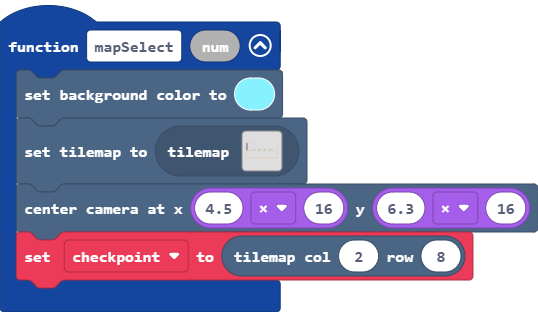
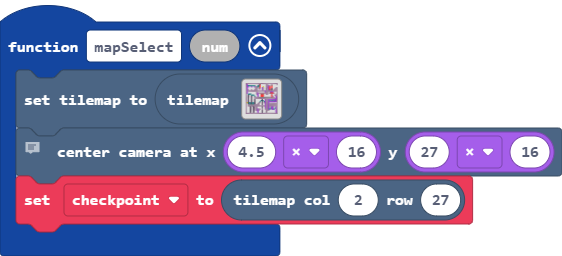
Update main.blocks, main.ts

diff --git a/main.ts b/main.ts
@@ -1134,10 +1134,10 @@ controller.down.onEvent(ControllerButtonEvent.Pressed, function () {
     }
 })
 function mapSelect (num: number) {
-    scene.setBackgroundColor(9)
-    tiles.setCurrentTilemap(tilemap`level6`)
-    scene.centerCameraAt(4.5 * 16, 6.3 * 16)
-    checkpoint = tiles.getTileLocation(2, 8)
+    tiles.setCurrentTilemap(tilemap`level2`)
+    // column at half of the room, same row as Herm.
+    scene.centerCameraAt(4.5 * 16, 27 * 16)
+    checkpoint = tiles.getTileLocation(2, 27)
 }
 scene.onOverlapTile(SpriteKind.Player, assets.tile`myTile14`, function (sprite, location) {
     sprites.destroy(Herm, effects.disintegrate, 100)
